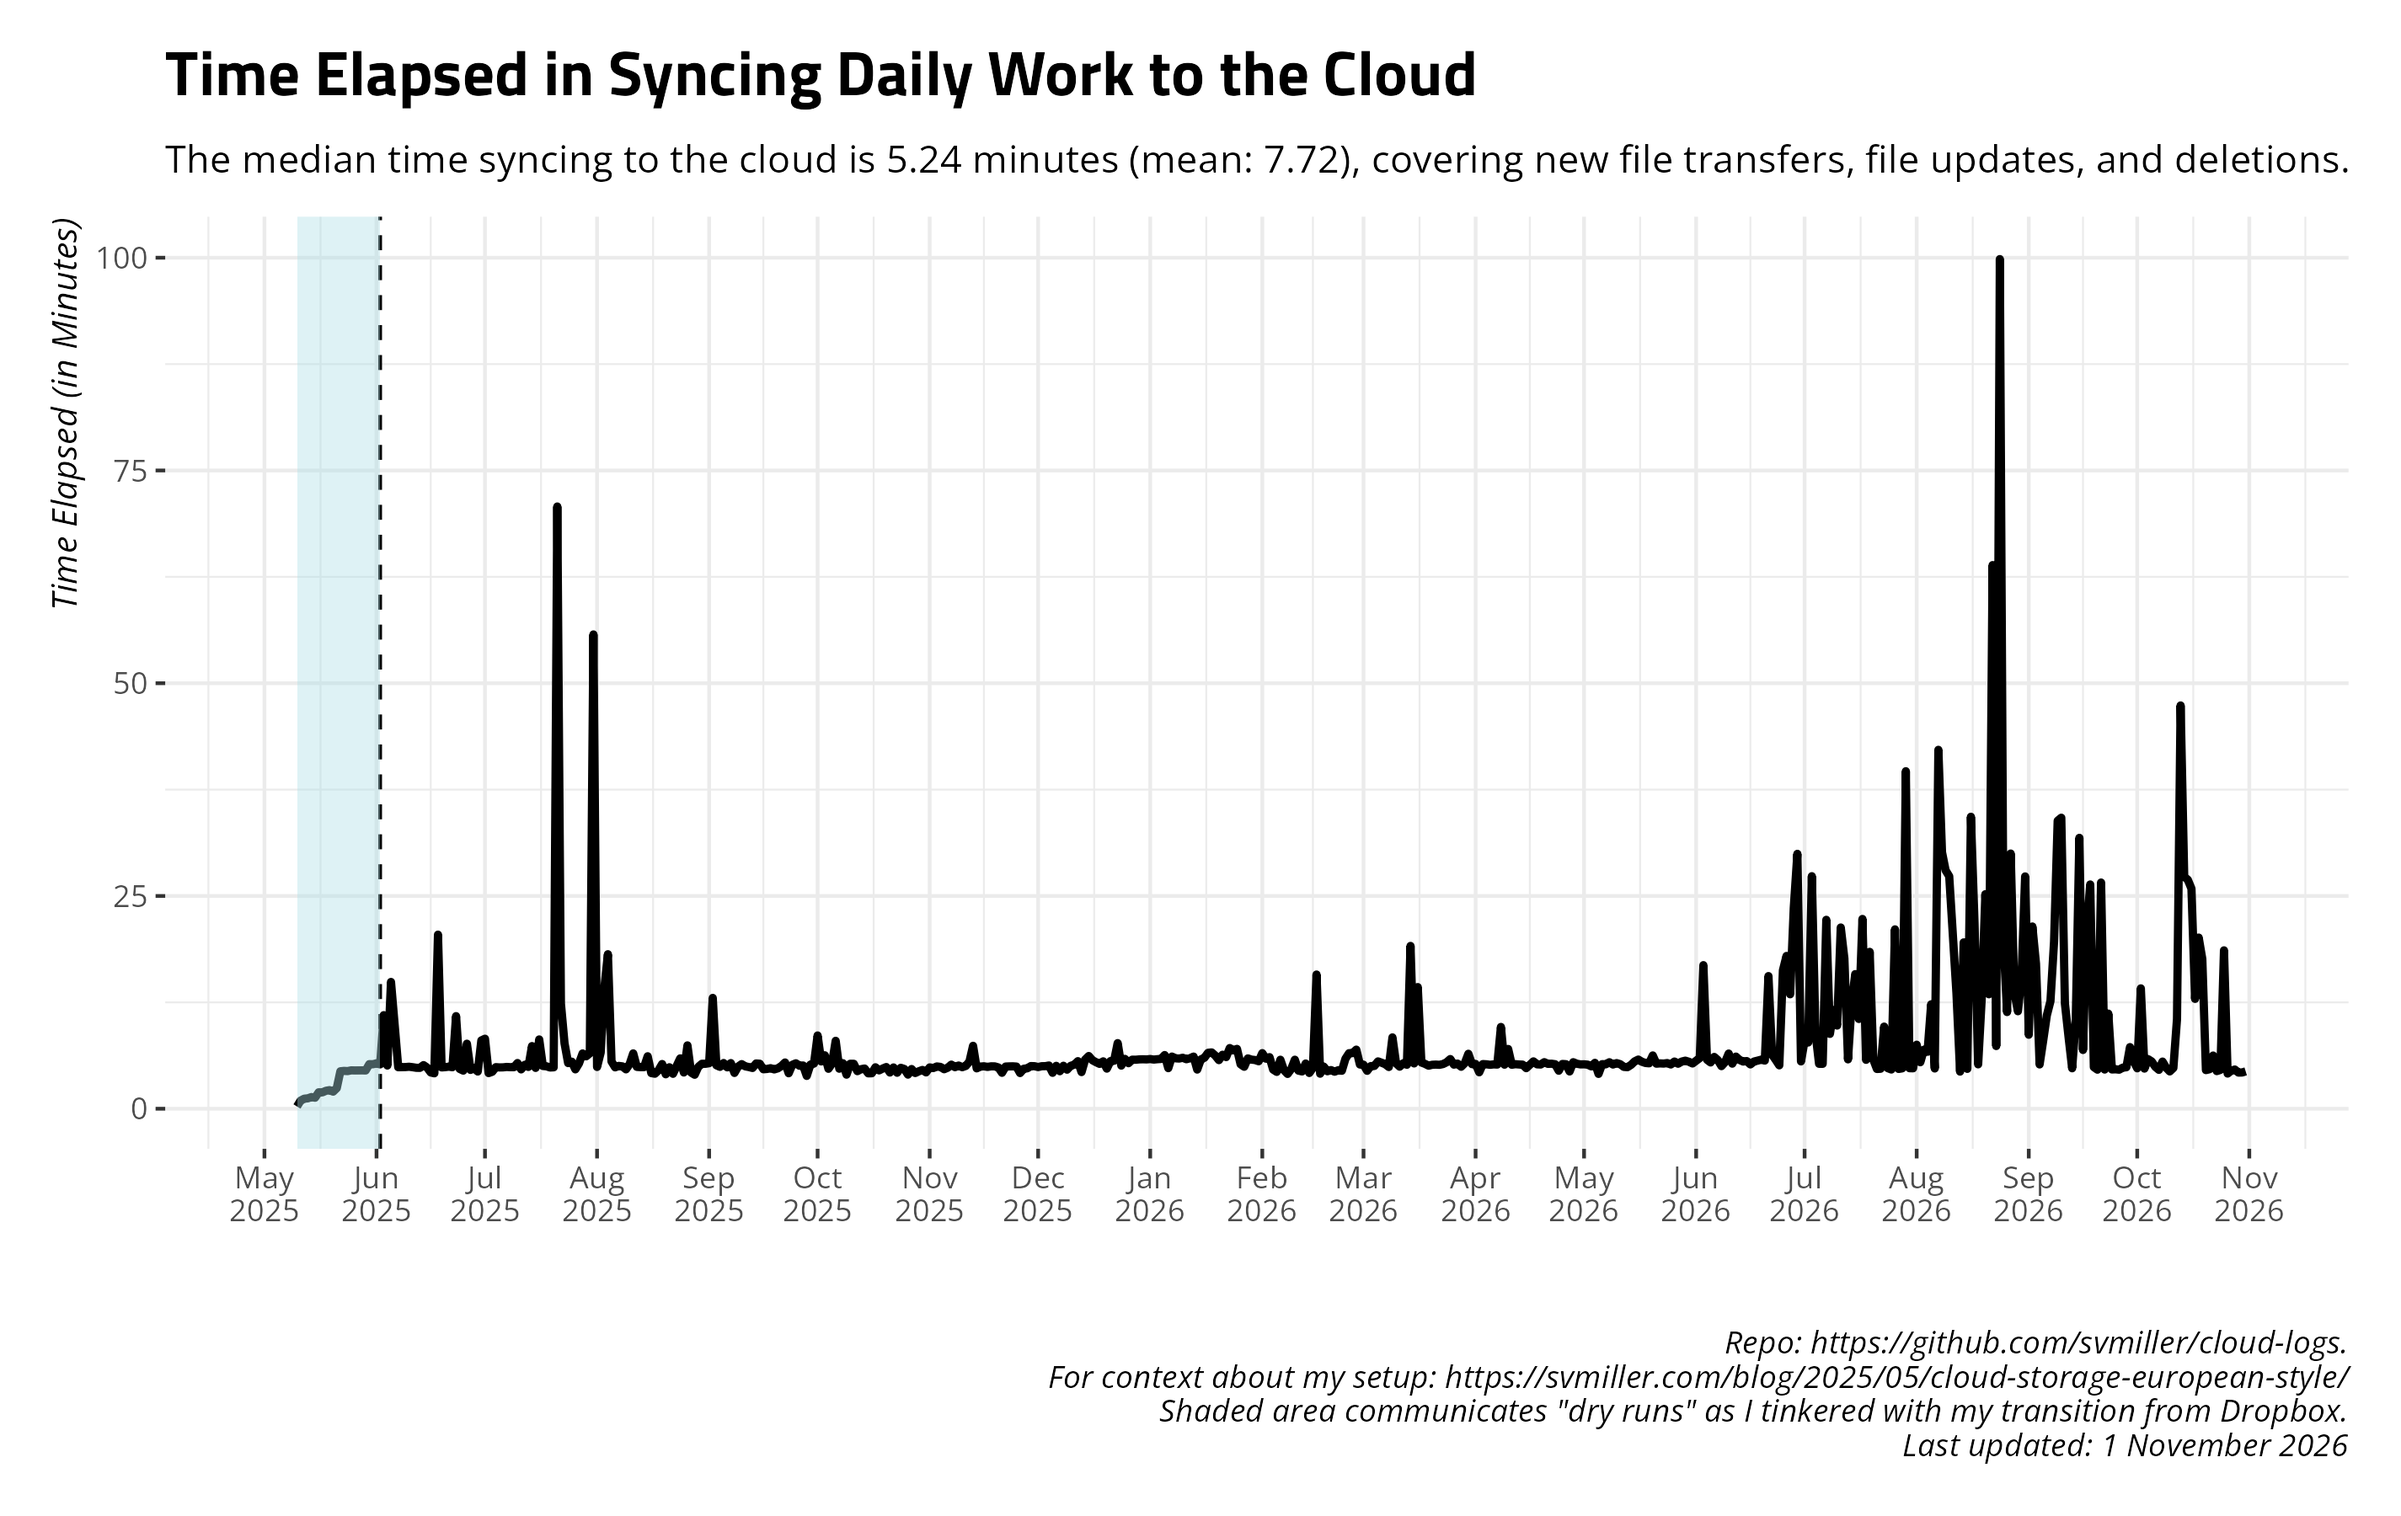
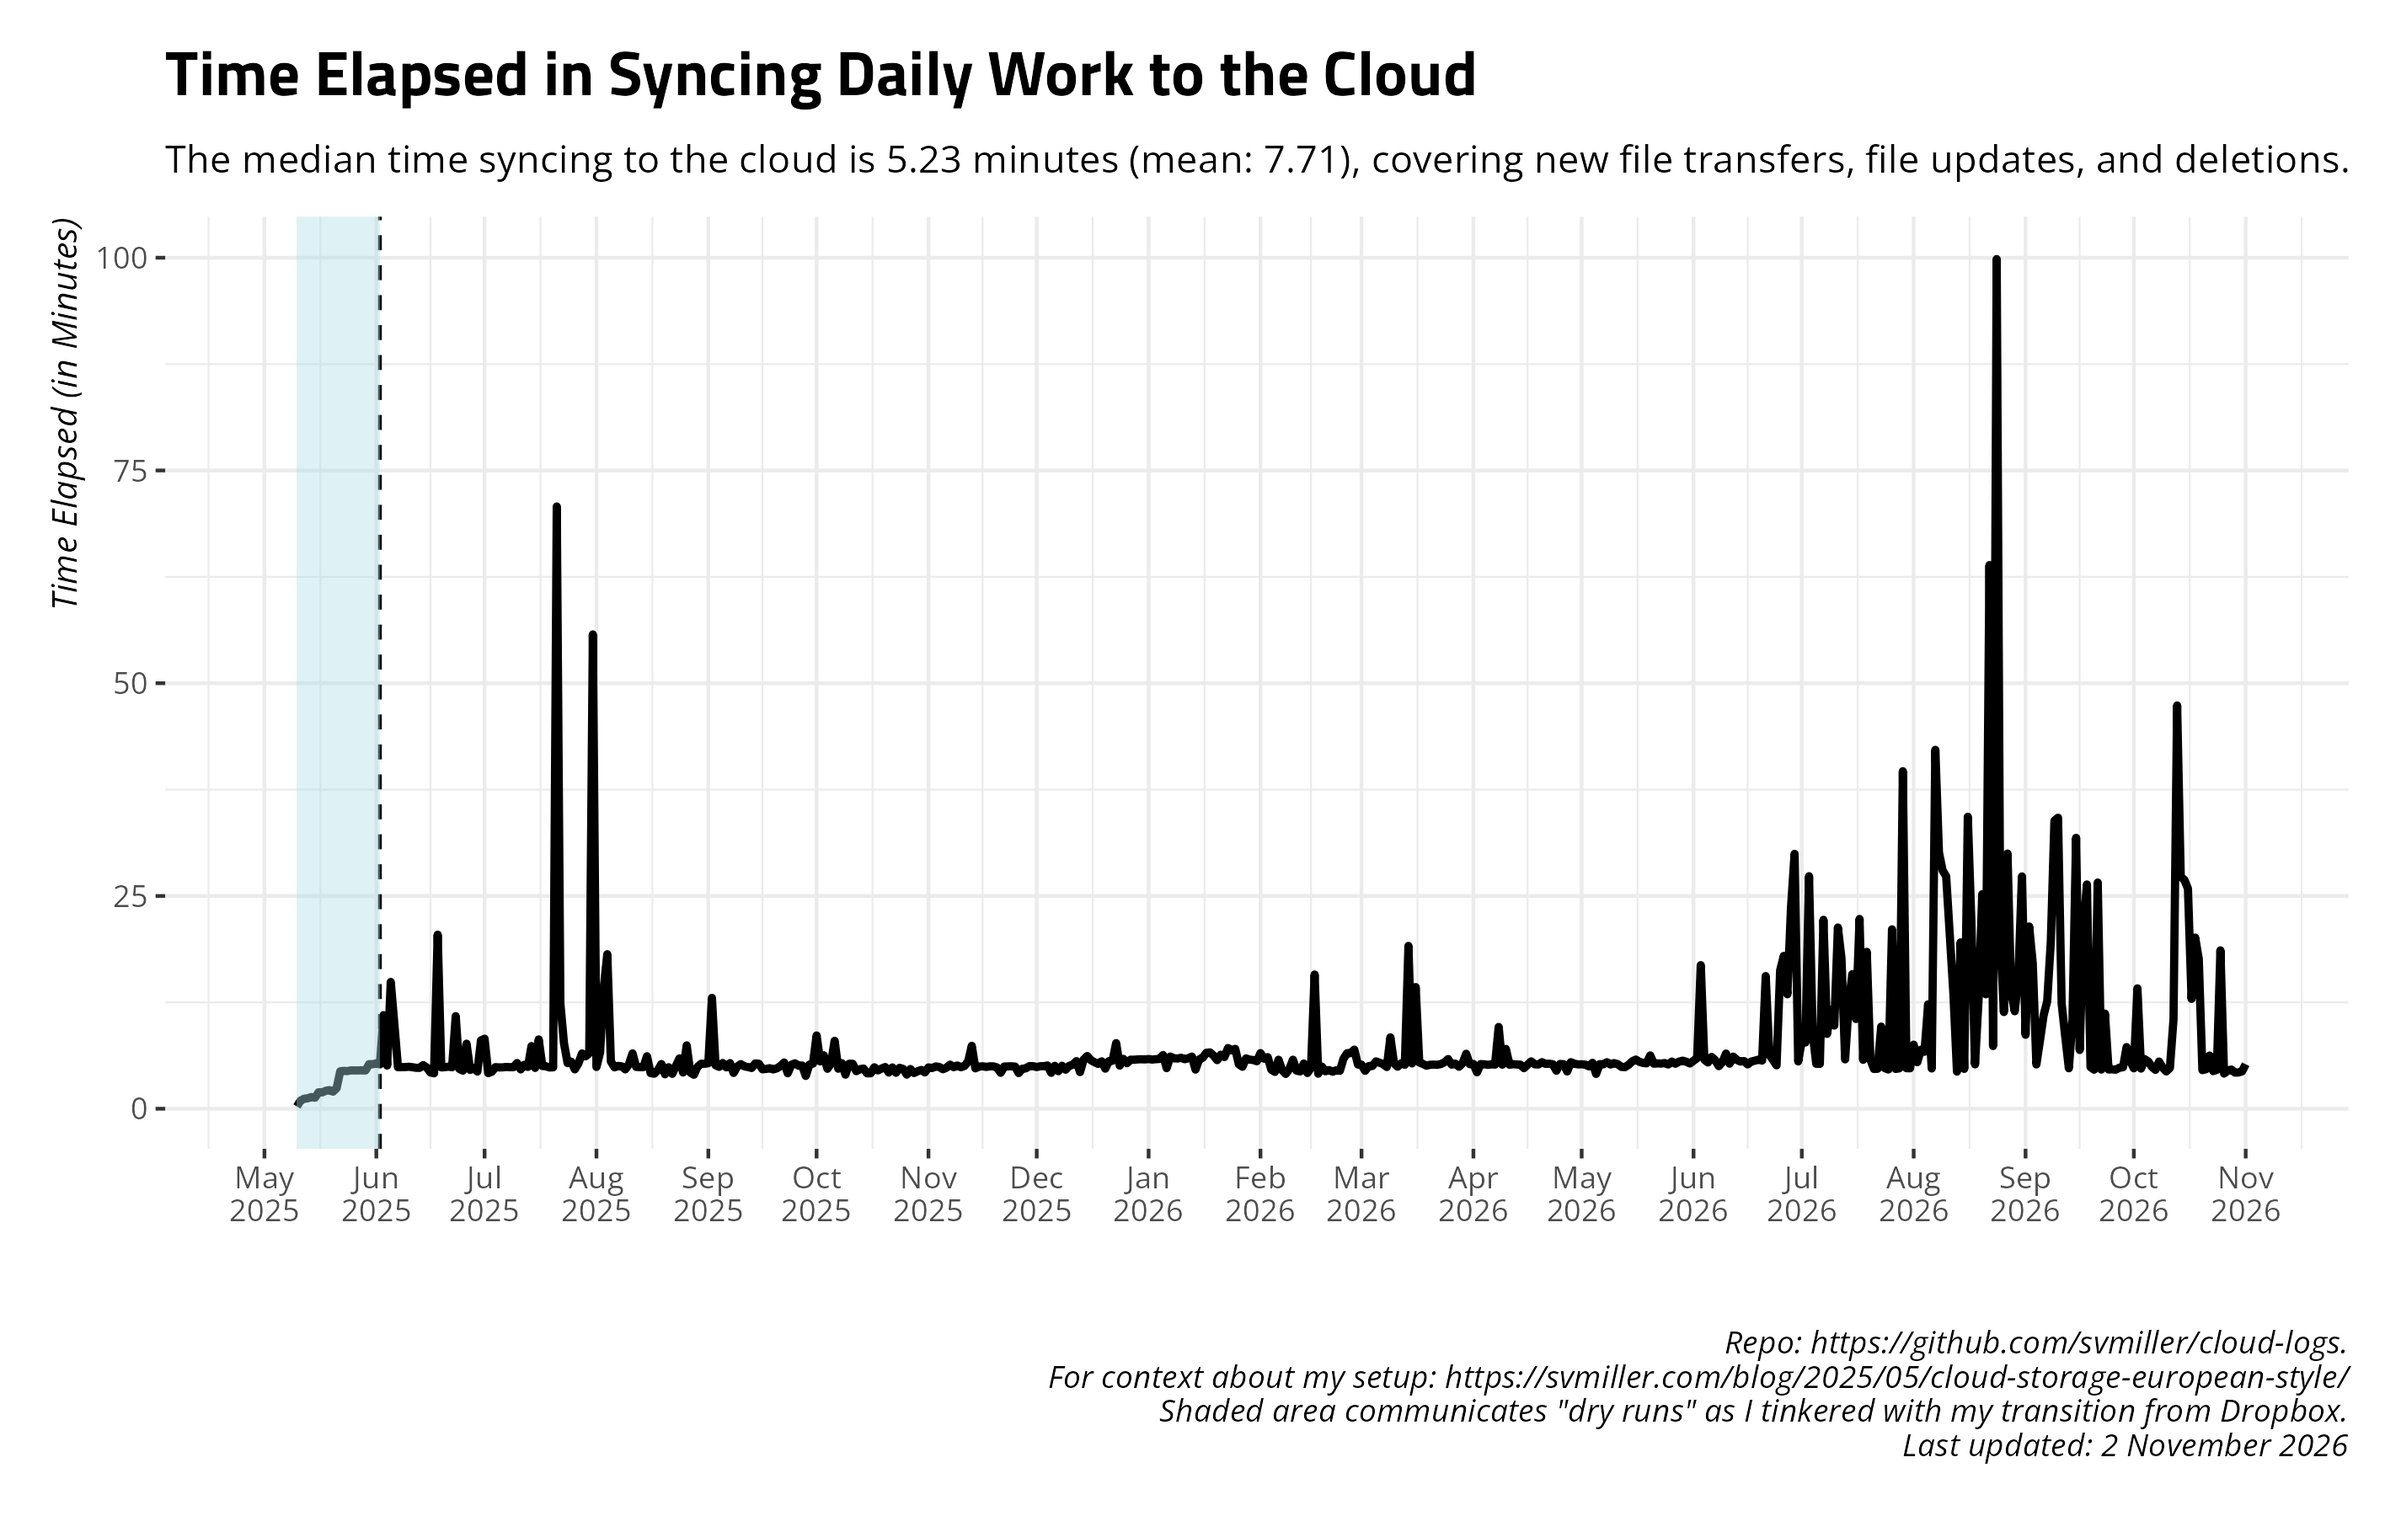
Date: 2026-11-02 09:00:40. Hi mom!

diff --git a/README.md b/README.md
@@ -27,17 +27,17 @@ and uploads to Github.
     #> # A tibble: 14 × 4
     #>    date       ftransfer stransfer   elapsed 
     #>    <date>         <dbl> <chr>       <chr>   
-    #>  1 2026-10-18         0 <NA>        20m6.6s 
-    #>  2 2026-10-19       108 20.905 MiB  17m36.0s
-    #>  3 2026-10-20       396 2.903 MiB   4m32.2s 
-    #>  4 2026-10-21        32 1.412 MiB   4m38.6s 
-    #>  5 2026-10-22        78 3.980 MiB   6m15.1s 
-    #>  6 2026-10-23       149 1.495 MiB   4m25.2s 
-    #>  7 2026-10-24        23 460.326 KiB 4m33.8s 
-    #>  8 2026-10-25        21 119.845 KiB 18m36.7s
-    #>  9 2026-10-26        94 9.100 MiB   4m7.9s  
-    #> 10 2026-10-27         2 3.880 MiB   4m28.2s 
-    #> 11 2026-10-28       405 10.600 MiB  4m36.4s 
-    #> 12 2026-10-29       158 4.397 MiB   4m14.9s 
-    #> 13 2026-10-30        75 521.424 KiB 4m15.4s 
-    #> 14 2026-10-31       400 6.702 MiB   4m23.4s
+    #>  1 2026-10-19       108 20.905 MiB  17m36.0s
+    #>  2 2026-10-20       396 2.903 MiB   4m32.2s 
+    #>  3 2026-10-21        32 1.412 MiB   4m38.6s 
+    #>  4 2026-10-22        78 3.980 MiB   6m15.1s 
+    #>  5 2026-10-23       149 1.495 MiB   4m25.2s 
+    #>  6 2026-10-24        23 460.326 KiB 4m33.8s 
+    #>  7 2026-10-25        21 119.845 KiB 18m36.7s
+    #>  8 2026-10-26        94 9.100 MiB   4m7.9s  
+    #>  9 2026-10-27         2 3.880 MiB   4m28.2s 
+    #> 10 2026-10-28       405 10.600 MiB  4m36.4s 
+    #> 11 2026-10-29       158 4.397 MiB   4m14.9s 
+    #> 12 2026-10-30        75 521.424 KiB 4m15.4s 
+    #> 13 2026-10-31       400 6.702 MiB   4m23.4s 
+    #> 14 2026-11-01        48 212.194 KiB 5m13.7s
